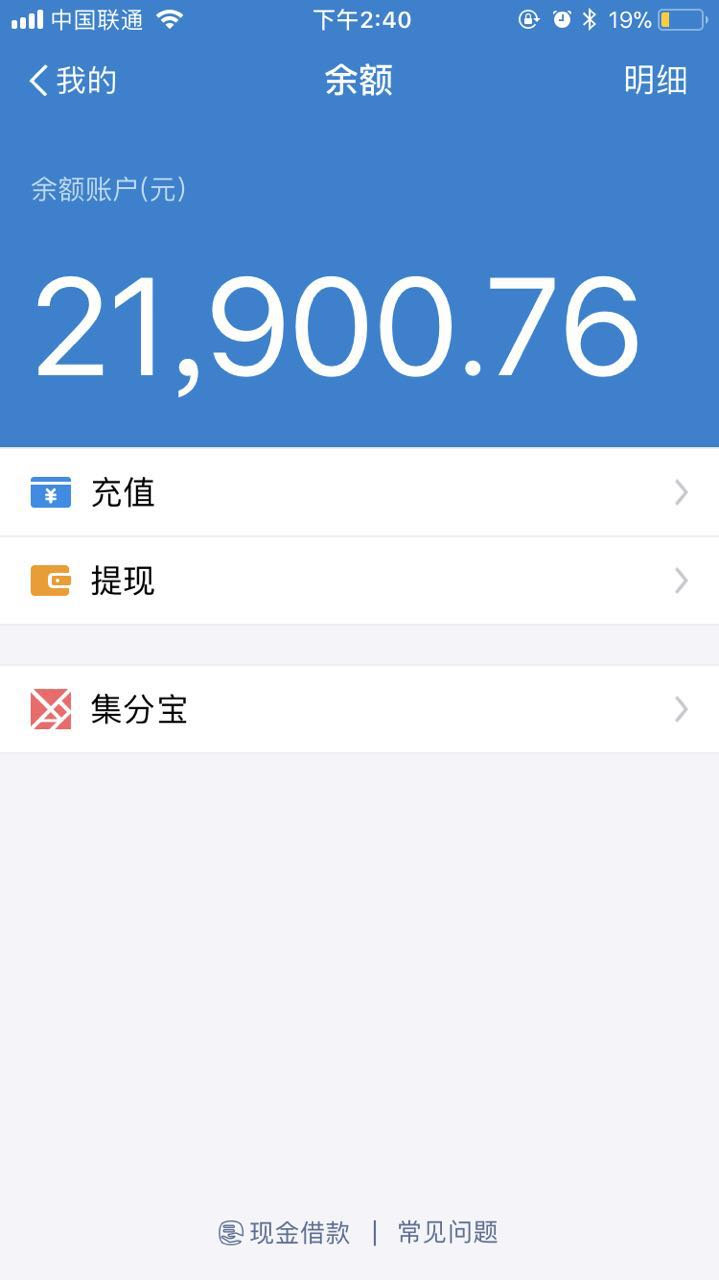
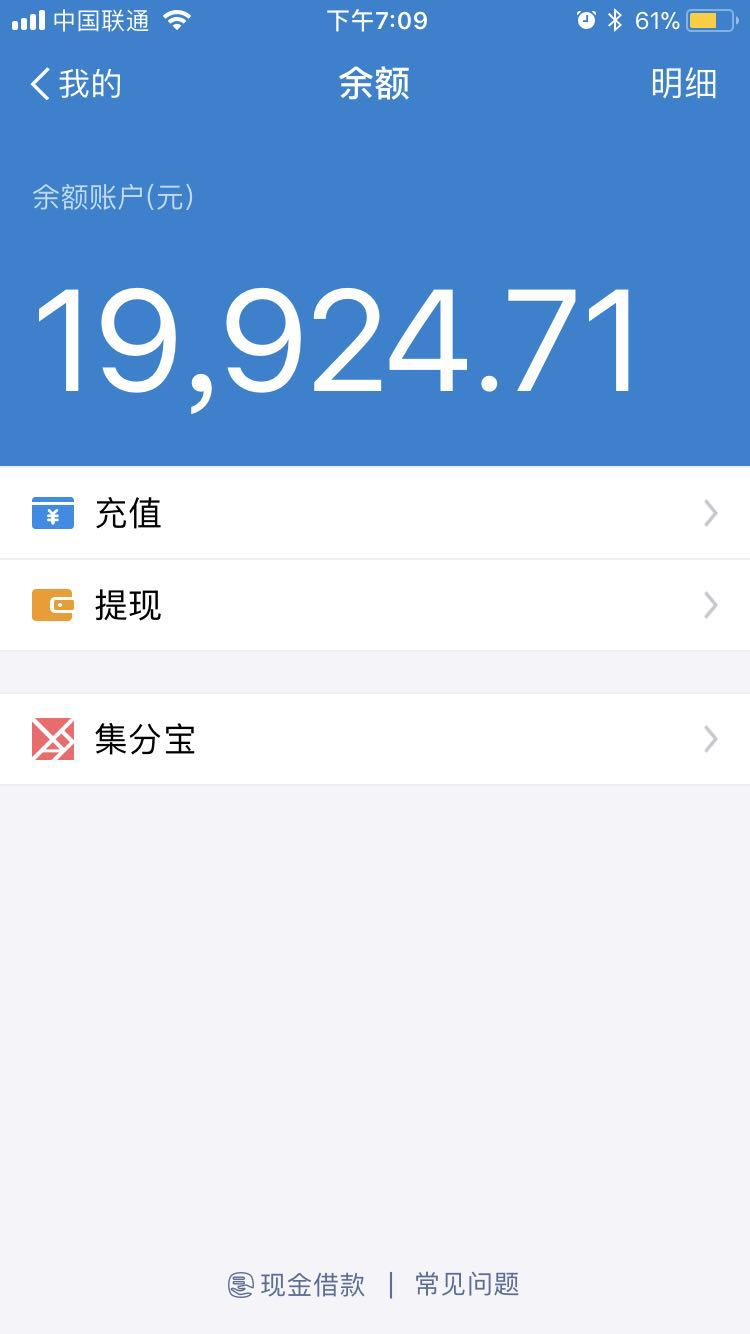
spending: 1997.5 20170829 第四期nodeparty费用支出

diff --git a/README.md b/README.md
@@ -1,6 +1,6 @@
 #  NodeParty 开源基金会运作草案 
 
-![](https://img.shields.io/badge/余额-21900.76%20元-green.svg) ![](https://img.shields.io/badge/赞助笔数-32%20笔-green.svg) ![](https://img.shields.io/badge/待入账-0.00%20元-blue.svg) 
+![](https://img.shields.io/badge/余额-19924.71%20元-green.svg) ![](https://img.shields.io/badge/赞助笔数-33%20笔-green.svg) ![](https://img.shields.io/badge/待入账-3000.00%20元-blue.svg) 
 
 ## 组织介绍
 
@@ -175,10 +175,10 @@ Commit Message 需按照此格式：
 <!-- money start -->
 | 款项 | 金额 |
 |------|------|
-| **总额** | 21900.76 元 |
+| **总额** | 19924.71 元 |
 | **本月收入** | 21900.76 元 |
-| **待入账** | 0.00 元 |
-| **本月支出** | 0.00 元 |
+| **待入账** | 3000.00 元 |
+| **本月支出** | 1997.5 元 |
 <!-- money end -->
 
 ### 余额截图
